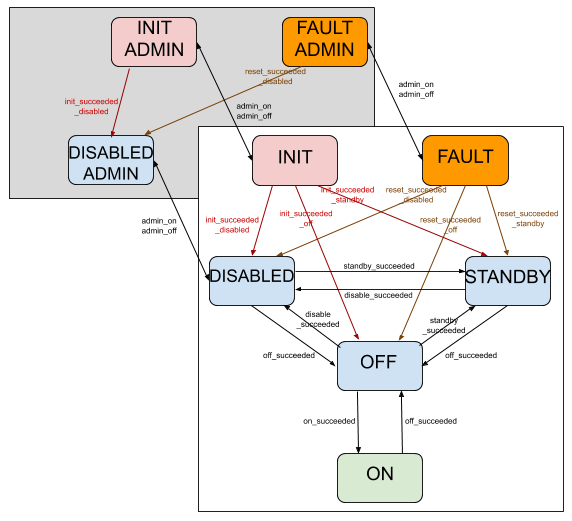
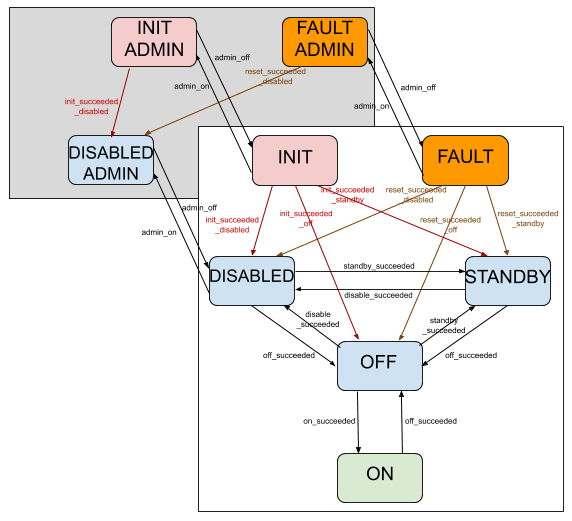
[MCCS-163] Update state machine docs image and rewrite dense lines

Changed region(s): [[0.2972, 0.0614, 0.4755, 0.3071], [0.2378, 0.3071, 0.3864, 0.5528], [0.6241, 0.0614, 0.7727, 0.3378]]

diff --git a/tests/conftest.py b/tests/conftest.py
@@ -39,8 +39,12 @@ def pytest_generate_tests(metafunc):
         spec = mark.args[0]
 
         states = {state: spec["states"][state] or state for state in spec["states"]}
-        triggers = set(transition["trigger"] for transition in spec["transitions"])
-        expected = defaultdict(lambda: None, (((transition["from"], transition["trigger"]), states[transition["to"]]) for transition in spec["transitions"]))
+
+        triggers = set()
+        expected = defaultdict(lambda: None)
+        for transition in spec["transitions"]:
+            triggers.add(transition["trigger"])
+            expected[(transition["from"], transition["trigger"])] = states[transition["to"]]
         test_cases = list(itertools.product(sorted(states), sorted(triggers)))
         test_ids = [f"{state}-{trigger}" for (state, trigger) in test_cases]
 
